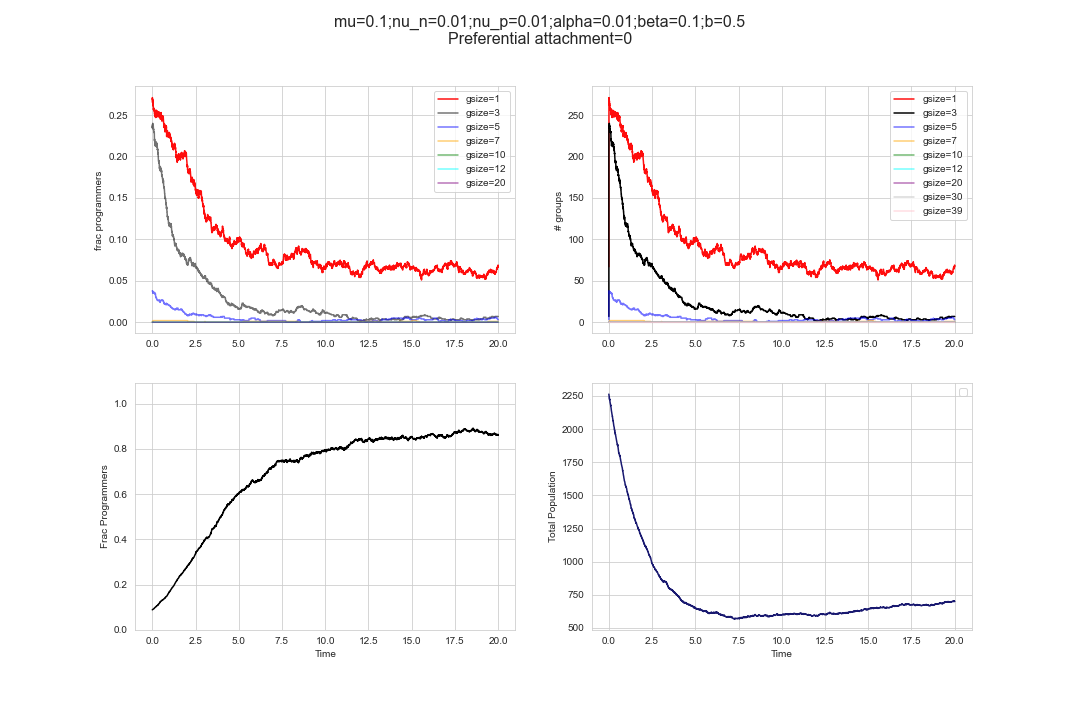
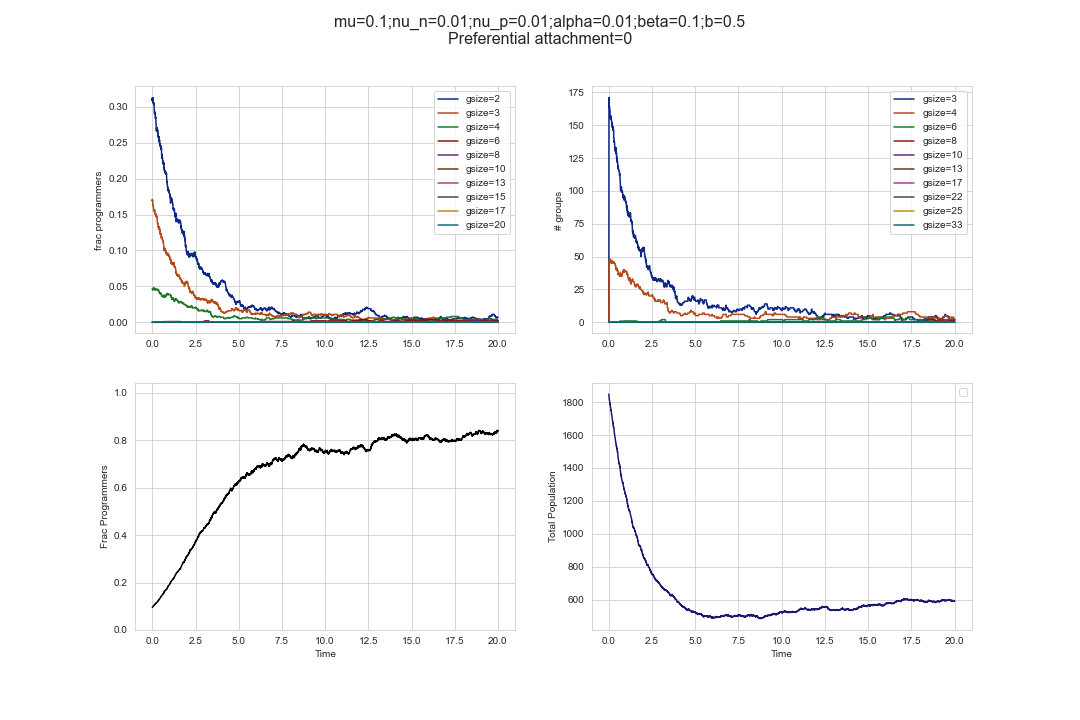
new plots

diff --git a/src/sos.py b/src/sos.py
@@ -6,7 +6,7 @@ import numpy as np
 import pandas as pd
 import seaborn as sns
 import xgi
-from numpy.random import binomial, choice, exponential, rand
+from numpy.random import binomial, choice, exponential, rand, logistic
 
 from helpers import count_prog_nonprog, grab, plot_frac_prog_group, plot_group_size
 
@@ -95,9 +95,7 @@ def whats_happening(event_queue, H, group, params, t):
     return event_queue
 
 def main():
-    #                 params
-    #        mu , nu_n, nu_p, alpha , beta, b, pa
-    params = (0.1, 0.01, 0.01, 0.01, 0.1, .5, 0)
+    params = (0.1, 0.01, 0.01, 0.01, 0.1, .5, 1)
     I0 = 0.1
 
     #initial conditions
@@ -131,18 +129,18 @@ def main():
     # [e[0] for e in event_queue]
 
     history = []
-    history_group_prog = []
     history_group = []
     tot_pop = []
     history.append(I/H.num_nodes)
-    history_group_prog.append(Ig/np.sum(Ig))
-    history_group.append(Ig)
+    # history_group_prog.append(Ig/np.sum(Ig))
+    history_group.append(Ig / np.sum(Ig))
     tot_pop.append(H.num_nodes)
     times = np.zeros(1)
 
     #for each generation
     t_max = 20
     
+    #for each generation
     while t < t_max:
 
         # draw from event queue
@@ -200,29 +198,90 @@ def main():
         # update history
         tot_pop.append(H.num_nodes)
         history = np.append(history, I / H.num_nodes)
-        history_group.append(Ig.copy())
-        history_group_prog.append(Ig/np.sum(Ig))
+        history_group.append(Ig / np.sum(Ig))
+        # history_group_prog.append(Ig/np.sum(Ig))
         times = np.append(times, time)
 
-    sns.set_style('whitegrid')
-    fig, axes = plt.subplots(2, 2, figsize=(15,10))
+
+    # sns.set_style('whitegrid')
+    def plot_quartet():
+        fig, axes = plt.subplots(2, 2, figsize=(15,10))
+        plot_frac_prog_group(history_group, times, ax=axes[0,0])
+        axes[0,0].set_xlabel("")
+        gsizes = [4,5,6,7,8,9,11,12,13]
+        plot_group_size(history_group, times, ax=axes[0,1], gsizes=gsizes)
+        axes[0,1].set_xlabel("")
+
+        sns.lineplot(x=times, y=history, color='black', ax=axes[1,0])
+        axes[1,0].set_xlabel('Time')
+        axes[1,0].set_ylabel('Frac Programmers')
+        axes[1,0].set_ylim(0, np.max(history)+0.2)
+
+        sns.lineplot(x=times, y=tot_pop, color='midnightblue', alpha=1., ax=axes[1,1])
+        axes[1,1].set_ylabel('Total Population')
+        axes[1,1].set_xlabel('Time')
+
+        param_lab = ['mu', 'nu_n', 'nu_p', 'alpha', 'beta', 'b']
+        title=';'.join([f'{lab}={val}' for lab, val in zip(param_lab, params)])
+        title += f"\nPreferential attachment={params[-1]}"
+        fig.suptitle(title, fontsize=16)
+
+    plot_quartet()
     
-    plot_frac_prog_group(history_group_prog, times, ax=axes[0,0])
-    axes[0,0].set_xlabel("")
-    plot_group_size(history_group, times, ax=axes[0,1])
-    axes[0,1].set_xlabel("")
+    # plt.savefig(f"../figs/summary_pa{params[-1]}.png")
 
-    sns.lineplot(x=times, y=history, color='black', ax=axes[1,0])
-    axes[1,0].set_xlabel('Time')
-    axes[1,0].set_ylabel('Frac Programmers')
-    axes[1,0].set_ylim(0, np.max(history)+0.2)
+    # individual plots
 
-    sns.lineplot(x=times, y=tot_pop, color='midnightblue', alpha=1., ax=axes[1,1])
-    axes[1,1].set_ylabel('Total Population')
-    axes[1,1].set_xlabel('Time')
+    def wrangle_Ig(Ig_norm, only_prog=True):
+        max_group = 20 if only_prog else 40
+        Ig_norm_wrangled = np.zeros((len(times), max_group))
+        for t in range(len(Ig_norm)):
+            num = np.zeros(max_group+1)   # Limit our attention to gsize < 21 for prog
+            denum = np.zeros(max_group+1) # because that's what we do in our AME model.
+            for gsize in range(max_group+1): 
+                for p in range(gsize):
+                    n = gsize-p
+                    if only_prog:
+                        num[gsize] += (p / gsize) * Ig_norm[t][p, n]
+                    denum[gsize] += Ig_norm[t][p, n]
+            
+            if only_prog:
+                weighted_sum = np.where(np.isnan(num[1:]/denum[1:]), 0, num[1:]/denum[1:])
+                Ig_norm_wrangled[t,:] = weighted_sum
+            else:
+                Ig_norm_wrangled[t,:] = denum[1:]
 
-    fig.suptitle(';'.join([f'{lab}={val}' for lab, val in zip(['mu', 'nu_n', 'nu_p', 'alpha', 'beta', 'b'], params)])+f"\nPreferential attachment={params[-1]}", fontsize=16)
-    plt.savefig(f"../figs/summary_pa{params[-1]}.png")
+        return Ig_norm_wrangled
+
+        
+    def plot_group_heatmap(Ig_norm, times, only_prog=False, ax=None, out=None):
+        """return gsize x time heatmap with z=fraction of programmers""" 
+        # Ignore gsize=0 b/c they'll be always zero
+        # Ig_norm=history_group
+        # only_prog=True
+        max_group = 20 if only_prog else 40
+        Ig_norm_wrangled = wrangle_Ig(Ig_norm, only_prog=only_prog)
+
+        if ax is None:
+            fig, ax = plt.subplots(1,1,figsize=(18,8))
+        sns.heatmap(pd.DataFrame(Ig_norm_wrangled).transpose(), cmap= "Blues" if only_prog else "Greens", 
+                    cbar_kws={"label": "frac programmers"}, ax=ax)
+        ax.set_yticklabels([_ for _ in range(1,max_group+1)]);
+        ax.set_xlabel("Time →")
+        ax.set_ylabel("Group size")
+        ax.set_xticklabels("");
+        # plt.savefig("update_frac_group.png")
+    
+    # fig, ax = plt.subplots(1,1,figsize=(15,12))
+    # gsizes = [6, 8, 11, 13, 15]
+    # plot_group_size(history_group, times, ax=ax, gsizes=gsizes)
+
+    fig, (ax1, ax2) = plt.subplots(2,1,figsize=(30,20))
+    plot_group_heatmap(history_group, times, only_prog=True, ax=ax1)
+    plot_group_heatmap(history_group, times, ax=ax2)
+    plt.savefig("update_frac_group.png")
+
+
 
 main()
 

diff --git a/src/helpers.py b/src/helpers.py
@@ -35,42 +35,8 @@ def plot_pref(history_pref):
     fig, ax = plt.subplots(1,1,figsize=(5, 10))
     sns.barplot(y="group", x="# selected", data=count_df, ax=ax)
 
-def plot_frac_prog_group(history_group, times, ax=None, out=None):
-    history_group_wrangled = np.zeros((len(times), (40//2)+1))
-    for t in range(len(times)):
-        out = np.zeros((40//2)+1)
-        for gsize in range((40//2)+1):
-            for p in range(gsize):
-                n = gsize-p
-                out[gsize] += history_group[t][p, n]
-    
-        history_group_wrangled[t,:] = out
 
-    if ax is None:
-        fig, ax = plt.subplots(1,1, figsize=(8,5))
-
-    sns.lineplot(x=times, y=[history_group_wrangled[t][1] for t in range(len(times))], 
-            color='red', alpha=0.95, ax=ax, label="gsize=1")
-    sns.lineplot(x=times, y=[history_group_wrangled[t][3] for t in range(len(times))], 
-            color='black', alpha=0.55, ax=ax, label="gsize=3")
-    sns.lineplot(x=times, y=[history_group_wrangled[t][5] for t in range(len(times))], 
-            color='blue', alpha=0.55, ax=ax, label="gsize=5")
-    sns.lineplot(x=times, y=[history_group_wrangled[t][7] for t in range(len(times))], 
-            color='orange', alpha=0.55, ax=ax, label="gsize=7")
-    sns.lineplot(x=times, y=[history_group_wrangled[t][10] for t in range(len(times))], 
-            color='green', alpha=0.55, ax=ax, label="gsize=10")
-    sns.lineplot(x=times, y=[history_group_wrangled[t][12] for t in range(len(times))], 
-            color='cyan', alpha=0.55, ax=ax, label="gsize=12")
-    sns.lineplot(x=times, y=[history_group_wrangled[t][20] for t in range(len(times))], 
-            color='purple', alpha=0.55, ax=ax, label="gsize=20")
-    ax.set_ylabel("frac programmers")
-    ax.set_xlabel("Time")
-    plt.legend()
-
-    if out is not None:
-        plt.savefig("test_sims.png")
-
-def plot_group_size(history_group, times, ax=None, out=None):
+def plot_group_size(history_group, times, ax=None, gsizes=None, out=None):
     history_group_wrangled = np.zeros((len(times), 40+1))
     for t in range(len(times)):
         out = np.zeros(40+1)
@@ -83,24 +49,12 @@ def plot_group_size(history_group, times, ax=None, out=None):
     if ax is None:
         fig, ax = plt.subplots(1,1, figsize=(8,5))
 
-    sns.lineplot(x=times, y=[history_group_wrangled[t][1] for t in range(len(times))], 
-            color='red', alpha=0.95, ax=ax, label="gsize=1")
-    sns.lineplot(x=times, y=[history_group_wrangled[t][3] for t in range(len(times))], 
-            color='black', alpha=1, ax=ax, label="gsize=3")
-    sns.lineplot(x=times, y=[history_group_wrangled[t][5] for t in range(len(times))], 
-            color='blue', alpha=0.55, ax=ax, label="gsize=5")
-    sns.lineplot(x=times, y=[history_group_wrangled[t][7] for t in range(len(times))], 
-            color='orange', alpha=0.55, ax=ax, label="gsize=7")
-    sns.lineplot(x=times, y=[history_group_wrangled[t][10] for t in range(len(times))], 
-            color='green', alpha=0.55, ax=ax, label="gsize=10")
-    sns.lineplot(x=times, y=[history_group_wrangled[t][12] for t in range(len(times))], 
-            color='cyan', alpha=0.55, ax=ax, label="gsize=12")
-    sns.lineplot(x=times, y=[history_group_wrangled[t][20] for t in range(len(times))], 
-            color='purple', alpha=0.55, ax=ax, label="gsize=20")
-    sns.lineplot(x=times, y=[history_group_wrangled[t][30] for t in range(len(times))], 
-            color='lightgrey', ax=ax, alpha=0.85, label="gsize=30")
-    sns.lineplot(x=times, y=[history_group_wrangled[t][39] for t in range(len(times))], 
-            color='pink', alpha=0.55, ax=ax, label="gsize=39")
+    if gsizes is None:
+        gsizes = [3,4,6, 8,10,13,17,22,25,33,39]
+    assert len(gsizes) <= len(sns.palettes.SEABORN_PALETTES['dark']), "too many gsize"
+    for gsize, col in zip(gsizes, sns.palettes.SEABORN_PALETTES['dark'][:len(gsizes)]):
+        sns.lineplot(x=times, y=[history_group_wrangled[t][gsize] for t in range(len(times))], 
+        color=col, alpha=0.95, ax=ax, label=f"gsize={gsize}")
     ax.set_ylabel("# groups")
     ax.set_xlabel("Time")
     plt.legend()
